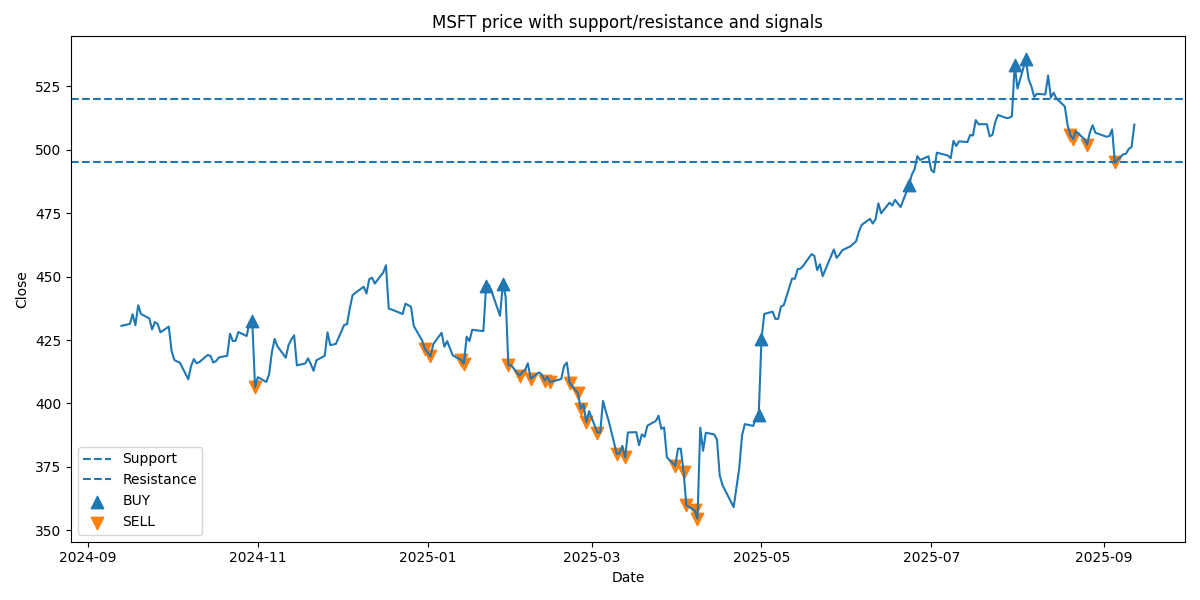
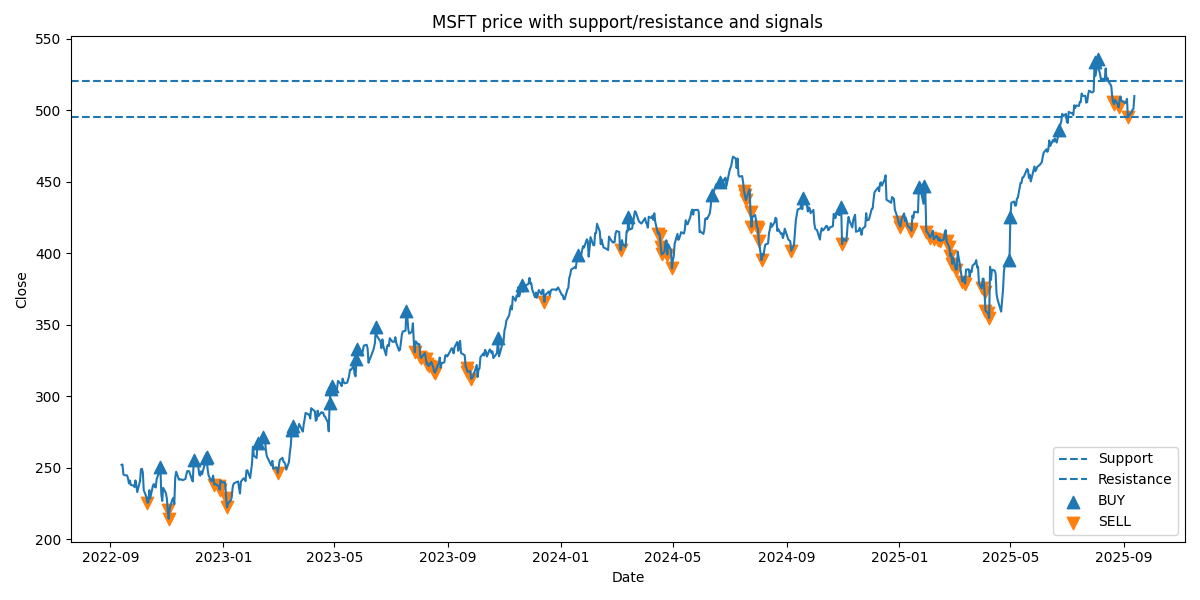
Add multi-year strategy backtesting with TP/SL support and update screener outputs

diff --git a/options.py b/options.py
@@ -97,10 +97,11 @@ def get_closest_expiry_dates(option_dates, target_days):
 
 # -------------------- Screener core --------------------
 
-def analyze_ticker_for_dtes(ticker, dte_targets=(0,3,7), min_oi=100, min_volume=20, r=0.01):
+def analyze_ticker_for_dtes(ticker, dte_targets=(0,3,7), min_oi=100, min_volume=20, r=0.01, hist_years=1):
     tk = yf.Ticker(ticker)
-    # load recent underlying history (1y daily) to use in backtest & volatility estimates
-    hist = tk.history(period="1y", interval="1d", auto_adjust=False)
+    # load underlying history (N years daily) to use in backtest & volatility estimates
+    period_str = f"{int(max(1, hist_years))}y"
+    hist = tk.history(period=period_str, interval="1d", auto_adjust=False)
     if hist.empty:
         raise RuntimeError(f"No historical data for {ticker}")
     hist = hist.reset_index()
@@ -224,9 +225,9 @@ def approximate_backtest_option_10x(ticker, candidate_row, hist, r=0.01):
     dates = hist['Date'].values
     for i in range(252, len(dates)-dte):
         buy_date = dates[i]
-        S_buy = float(hist.loc[hist['Date'] == buy_date, 'Close'].iloc[0])
-        # use realized vol up to buy_date
-        sigma = float(hist.loc[hist['Date'] == buy_date, 'rv21'].iloc[0])
+        S_buy = float(hist['Close'].iloc[i])
+        # use realized vol at index i
+        sigma = float(hist['rv21'].iloc[i])
         T_buy = max(1/252.0, dte/252.0)
         # approximate mid price at buy_date using BSM
         price_model = bsm_call_price(S_buy, strike, T_buy, r, sigma)
@@ -253,6 +254,143 @@ def approximate_backtest_option_10x(ticker, candidate_row, hist, r=0.01):
     avg_return_x = df_res['ret_x'].mean()
     metrics = {'tries':tries, 'hits':int(hits), 'hit_rate':float(hit_rate), 'avg_return_x':float(avg_return_x)}
     return df_res, metrics
+
+# -------------------- Strategy backtest (multi-year, SL/TP) --------------------
+
+def backtest_breakout_option_strategy(hist, dte=7, moneyness=0.05, r=0.01, tp_x=None, sl_x=None):
+    """Simulate a simple strategy: on breakout BUY signal, buy an OTM call (strike = S*(1+moneyness)),
+    price via BSM, hold until TP/SL or expiry. Returns equity curve and trade log + metrics.
+
+    Parameters:
+        hist: DataFrame with Date, Close, Volume, rv21 columns
+        dte: days to expiry for each trade
+        moneyness: e.g., 0.05 means 5% OTM strike K = S*(1+0.05)
+        r: risk-free rate
+        tp_x: take-profit multiple of entry premium (e.g., 3.0 = +200%)
+        sl_x: stop-loss multiple of entry premium (e.g., 0.5 = -50%)
+    """
+    df = hist.copy()
+    if 'rv21' not in df.columns:
+        df['ret'] = df['Close'].pct_change()
+        df['rv21'] = df['ret'].rolling(21).std() * np.sqrt(252)
+        df['rv21'] = df['rv21'].fillna(method='bfill').fillna(df['rv21'].median())
+    signals = generate_breakout_signals(df)
+    signal_idx = set(signals.index.tolist())
+
+    dates = df['Date'].reset_index(drop=True)
+    closes = df['Close'].reset_index(drop=True)
+    vols = df['rv21'].reset_index(drop=True)
+
+    equity = 1.0
+    equity_curve = []
+    trades = []
+
+    i = 0
+    n = len(df)
+    while i < n:
+        # Not enough time remaining for a full trade
+        if i >= n - 2:
+            equity_curve.append({'Date': dates.iloc[i], 'equity': equity})
+            i += 1
+            continue
+
+        # If buy signal today and enough room for trade horizon
+        if i in signal_idx and i + dte < n:
+            S0 = float(closes.iloc[i])
+            sigma0 = float(vols.iloc[i]) if np.isfinite(vols.iloc[i]) else float(np.nanmean(vols[:i+1]))
+            K = S0 * (1.0 + float(moneyness))
+            price0 = bsm_call_price(S0, K, max(1/252.0, dte/252.0), r, max(1e-6, sigma0))
+            if price0 <= 0:
+                # skip unpriceable
+                equity_curve.append({'Date': dates.iloc[i], 'equity': equity})
+                i += 1
+                continue
+            exit_idx = i + dte
+            exit_price = None
+            reason = 'expiry'
+
+            # simulate daily and check SL/TP
+            for j in range(i+1, i + dte + 1):
+                t_remaining = max(1/252.0, (i + dte - j)/252.0)
+                S_t = float(closes.iloc[j])
+                sigma_t = float(vols.iloc[j]) if np.isfinite(vols.iloc[j]) else sigma0
+                model_price_t = bsm_call_price(S_t, K, t_remaining, r, max(1e-6, sigma_t)) if t_remaining>0 else max(S_t - K, 0.0)
+                if tp_x is not None and model_price_t >= price0 * float(tp_x):
+                    exit_idx = j
+                    exit_price = model_price_t
+                    reason = 'tp'
+                    break
+                if sl_x is not None and model_price_t <= price0 * float(sl_x):
+                    exit_idx = j
+                    exit_price = model_price_t
+                    reason = 'sl'
+                    break
+            if exit_price is None:
+                # expiry payoff
+                S_T = float(closes.iloc[min(i + dte, n-1)])
+                exit_price = max(S_T - K, 0.0)
+
+            ret_x = (exit_price / price0) if price0 > 0 else 0.0
+            equity *= max(0.0, ret_x)
+
+            trades.append({
+                'entry_date': dates.iloc[i],
+                'exit_date': dates.iloc[exit_idx],
+                'entry_price': price0,
+                'exit_price': exit_price,
+                'ret_x': ret_x,
+                'days_held': int(exit_idx - i),
+                'reason': reason,
+                'K': K,
+                'S_entry': S0,
+                'S_exit': float(closes.iloc[exit_idx])
+            })
+            # Fill equity curve from i to exit_idx
+            for k in range(i, exit_idx+1):
+                equity_curve.append({'Date': dates.iloc[k], 'equity': equity})
+            i = exit_idx + 1
+            continue
+
+        # No trade today
+        equity_curve.append({'Date': dates.iloc[i], 'equity': equity})
+        i += 1
+
+    eq_df = pd.DataFrame(equity_curve).drop_duplicates(subset=['Date'], keep='last')
+    trades_df = pd.DataFrame(trades)
+
+    # Metrics
+    if not eq_df.empty:
+        eq_df = eq_df.sort_values('Date').reset_index(drop=True)
+        eq_df['ret'] = eq_df['equity'].pct_change().fillna(0.0)
+        # Max drawdown
+        rolling_max = eq_df['equity'].cummax()
+        drawdown = (eq_df['equity'] / rolling_max) - 1.0
+        max_dd = float(drawdown.min()) if len(drawdown)>0 else 0.0
+        total_ret = float(eq_df['equity'].iloc[-1] / eq_df['equity'].iloc[0] - 1.0)
+        days = max(1, (eq_df['Date'].iloc[-1] - eq_df['Date'].iloc[0]).days)
+        cagr = float((eq_df['equity'].iloc[-1] / max(1e-9, eq_df['equity'].iloc[0])) ** (365.0/days) - 1.0) if days>0 else 0.0
+        # Daily Sharpe (no risk-free subtraction for simplicity)
+        sh = float(np.sqrt(252) * (eq_df['ret'].mean() / (eq_df['ret'].std() + 1e-9))) if len(eq_df)>2 else 0.0
+    else:
+        max_dd = 0.0
+        total_ret = 0.0
+        cagr = 0.0
+        sh = 0.0
+
+    win_rate = float((trades_df['ret_x'] > 1.0).mean()) if not trades_df.empty else 0.0
+    avg_trade_ret_x = float(trades_df['ret_x'].mean()) if not trades_df.empty else 0.0
+
+    metrics = {
+        'total_trades': int(len(trades_df)),
+        'win_rate': win_rate,
+        'avg_trade_ret_x': avg_trade_ret_x,
+        'total_return': total_ret,
+        'CAGR': cagr,
+        'Sharpe': sh,
+        'max_drawdown': max_dd
+    }
+
+    return eq_df, trades_df, metrics
 
 # -------------------- Support/Resistance & plotting --------------------
 
@@ -315,22 +453,49 @@ def generate_breakout_signals(hist, window=20, lookback=5):
 
 # -------------------- Main runner --------------------
 
-def run_screener(tickers, min_oi=200, min_vol=30, out_prefix='screener_results'):
+def run_screener(tickers, min_oi=200, min_vol=30, out_prefix='screener_results', bt_years=3, bt_dte=7, bt_moneyness=0.05, bt_tp_x=None, bt_sl_x=None):
     all_candidates = []
     backtest_rows = []
     for t in tqdm(tickers, desc='Tickers'):
         try:
-            df_ops, hist = analyze_ticker_for_dtes(t, dte_targets=(0,3,7), min_oi=min_oi, min_volume=min_vol)
+            df_ops, hist = analyze_ticker_for_dtes(t, dte_targets=(0,3,7), min_oi=min_oi, min_volume=min_vol, hist_years=bt_years)
             if df_ops.empty:
-                continue
-            # select top N per ticker
-            topn = df_ops.head(10)
-            for _, r in topn.iterrows():
-                all_candidates.append(r.to_dict())
-                # approximate backtest
-                df_bt, metrics = approximate_backtest_option_10x(t, r, hist)
-                metrics_row = {**{'ticker':t, 'expiry':r['expiry'],'strike':r['strike'],'dte':r['dte']}, **metrics}
-                backtest_rows.append(metrics_row)
+                # even if no options found, still try to run strategy backtest on price data
+                pass
+            else:
+                # select top N per ticker
+                topn = df_ops.head(10)
+                for _, r in topn.iterrows():
+                    all_candidates.append(r.to_dict())
+                    # approximate backtest of 10x condition for context
+                    df_bt, metrics = approximate_backtest_option_10x(t, r, hist)
+                    metrics_row = {**{'ticker':t, 'expiry':r['expiry'],'strike':r['strike'],'dte':r['dte']}, **metrics}
+                    backtest_rows.append(metrics_row)
+
+            # Strategy backtest on extended history
+            eq_df, trades_df, strat_metrics = backtest_breakout_option_strategy(
+                hist, dte=bt_dte, moneyness=bt_moneyness, r=0.01, tp_x=bt_tp_x, sl_x=bt_sl_x
+            )
+            # save equity curve per ticker
+            try:
+                os.makedirs('backtests', exist_ok=True)
+                eq_out = os.path.join('backtests', f"{t}_equity.csv")
+                eq_df.assign(ticker=t).to_csv(eq_out, index=False)
+            except Exception:
+                pass
+
+            # append summary metrics row for strategy
+            strat_row = {'ticker': t, 'strategy_total_trades': strat_metrics.get('total_trades',0),
+                         'strategy_win_rate': strat_metrics.get('win_rate',0.0),
+                         'strategy_avg_trade_ret_x': strat_metrics.get('avg_trade_ret_x',0.0),
+                         'strategy_total_return': strat_metrics.get('total_return',0.0),
+                         'strategy_CAGR': strat_metrics.get('CAGR',0.0),
+                         'strategy_Sharpe': strat_metrics.get('Sharpe',0.0),
+                         'strategy_max_drawdown': strat_metrics.get('max_drawdown',0.0),
+                         'bt_years': bt_years, 'bt_dte': bt_dte, 'bt_moneyness': bt_moneyness,
+                         'bt_tp_x': bt_tp_x if bt_tp_x is not None else '',
+                         'bt_sl_x': bt_sl_x if bt_sl_x is not None else ''}
+            backtest_rows.append(strat_row)
 
             # generate chart with signals
             signals = generate_breakout_signals(hist)
@@ -357,6 +522,12 @@ if __name__ == '__main__':
                         help='Optional: comma-separated tickers to screen (fallback if CSV not provided/found).')
     parser.add_argument('--min_oi', type=int, default=200, help='Minimum open interest to consider')
     parser.add_argument('--min_vol', type=int, default=30, help='Minimum option volume to consider')
+    # Backtest parameters
+    parser.add_argument('--bt_years', type=int, default=3, help='Backtest lookback period in years for underlying history')
+    parser.add_argument('--bt_dte', type=int, default=7, help='DTE (days to expiry) for simulated trades')
+    parser.add_argument('--bt_moneyness', type=float, default=0.05, help='Relative OTM for strike: K = S * (1 + moneyness)')
+    parser.add_argument('--bt_tp_x', type=float, default=None, help='Take-profit multiple of premium (e.g., 3.0 for +200%). Leave empty for none.')
+    parser.add_argument('--bt_sl_x', type=float, default=None, help='Stop-loss multiple of premium (e.g., 0.5 for -50%). Leave empty for none.')
     args = parser.parse_args()
 
     def load_tickers_from_csv(path):
@@ -402,7 +573,17 @@ if __name__ == '__main__':
     tickers = [t for t in tickers if t and t not in _header_tokens and _valid_re.match(t)]
 
     print('Running screener on:', tickers)
-    df_res, df_bt = run_screener(tickers, min_oi=args.min_oi, min_vol=args.min_vol)
+    df_res, df_bt = run_screener(
+        tickers,
+        min_oi=args.min_oi,
+        min_vol=args.min_vol,
+        out_prefix='screener_results',
+        bt_years=args.bt_years,
+        bt_dte=args.bt_dte,
+        bt_moneyness=args.bt_moneyness,
+        bt_tp_x=args.bt_tp_x,
+        bt_sl_x=args.bt_sl_x,
+    )
 
     print('\nScreener finished.')
     if not df_res.empty:
@@ -413,3 +594,4 @@ if __name__ == '__main__':
         print(df_bt.head(20).to_string(index=False))
 
     print('\nPlots saved to plots/ (one per ticker)')
+    print('Per-ticker equity curves saved to backtests/<TICKER>_equity.csv')

diff --git a/README.md b/README.md
@@ -307,3 +307,30 @@ Examples:
   ./run.sh --tickers_csv tickers.csv --min_oi 200 --min_vol 50
 
 Backward compatibility: you can still pass a comma-separated list via `--tickers`, which is used if a CSV isn’t provided/found.
+
+
+
+## Improved backtesting (multi-year strategy simulation)
+
+The screener now includes a more realistic multi-year backtest that simulates buying short-dated calls on breakout signals.
+It prices options via Black–Scholes using historical realized volatility and supports take-profit/stop-loss exits. Outputs include
+per-ticker equity curves under backtests/ and an aggregate summary in screener_results_backtest.csv.
+
+Key CLI flags:
+- --bt_years N          # years of underlying history to load for backtesting (default: 3)
+- --bt_dte D            # option DTE in days for simulated trades (default: 7)
+- --bt_moneyness PCT    # OTM percent for strike; K = S * (1 + PCT), e.g., 0.05 = 5% OTM (default: 0.05)
+- --bt_tp_x X           # optional take-profit multiple of entry premium, e.g., 3.0 for +200%
+- --bt_sl_x X           # optional stop-loss multiple of entry premium, e.g., 0.5 for -50%
+
+Examples:
+
+  # Run with defaults (uses tickers.csv if present)
+  ./run.sh
+
+  # 5-year backtest, 7DTE, 5% OTM, with TP=3x and SL=0.5x
+  ./run.sh --bt_years 5 --bt_dte 7 --bt_moneyness 0.05 --bt_tp_x 3 --bt_sl_x 0.5
+
+Outputs (in addition to the existing CSVs and plots):
+- backtests/<TICKER>_equity.csv   # per-ticker equity curve over time
+- screener_results_backtest.csv   # now includes strategy metrics (CAGR, Sharpe, max drawdown, win rate)
